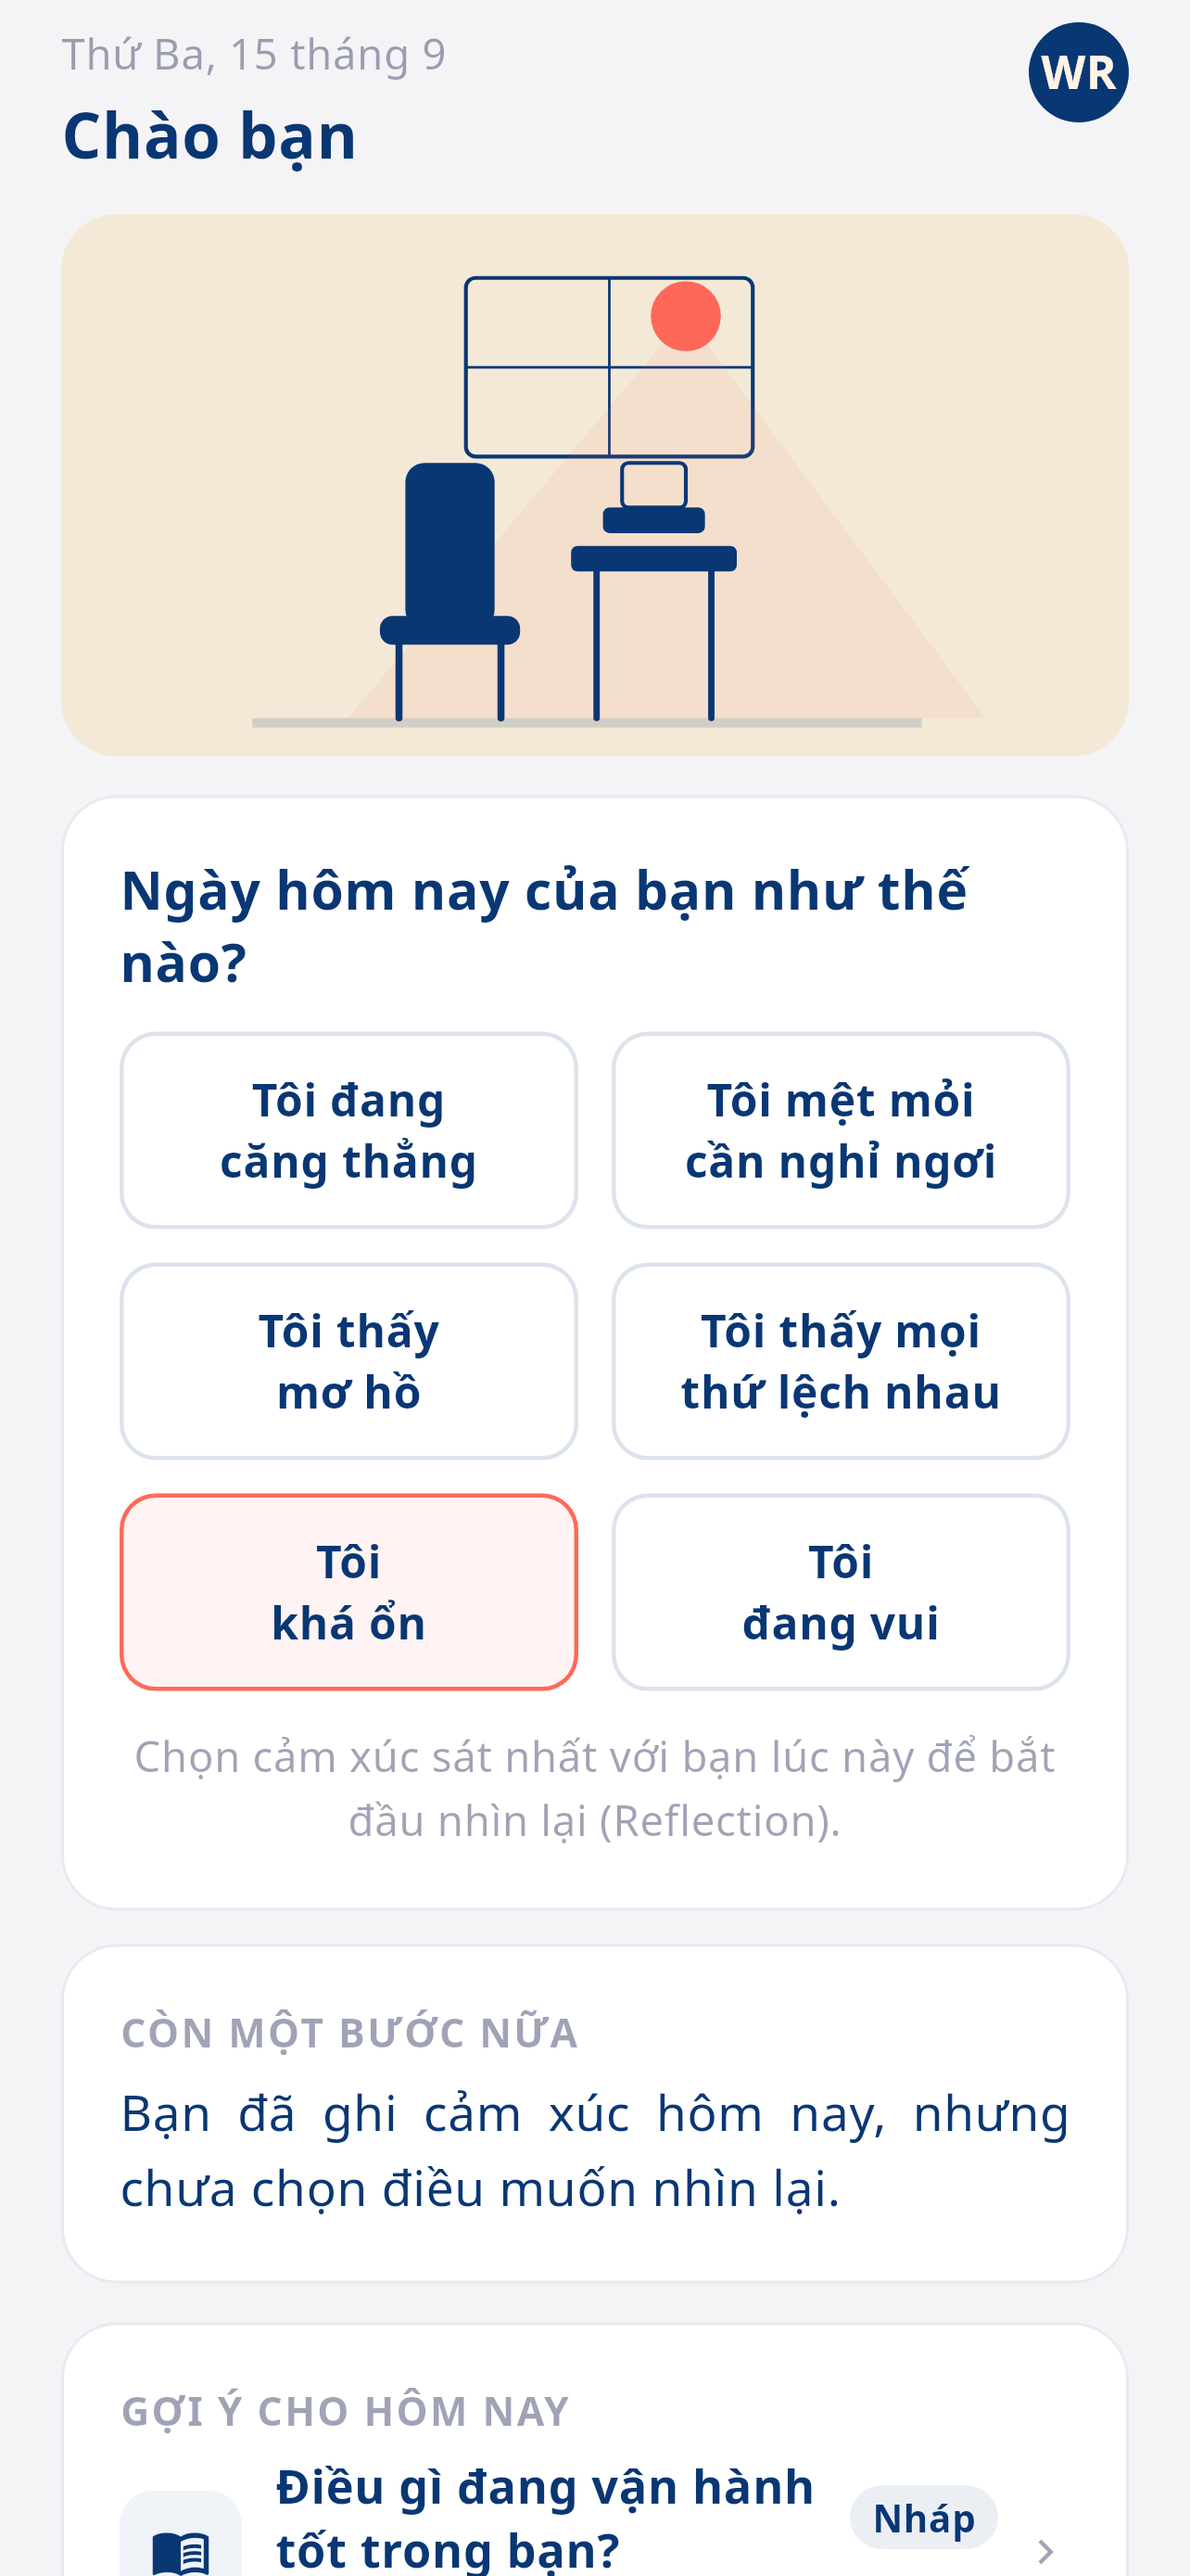
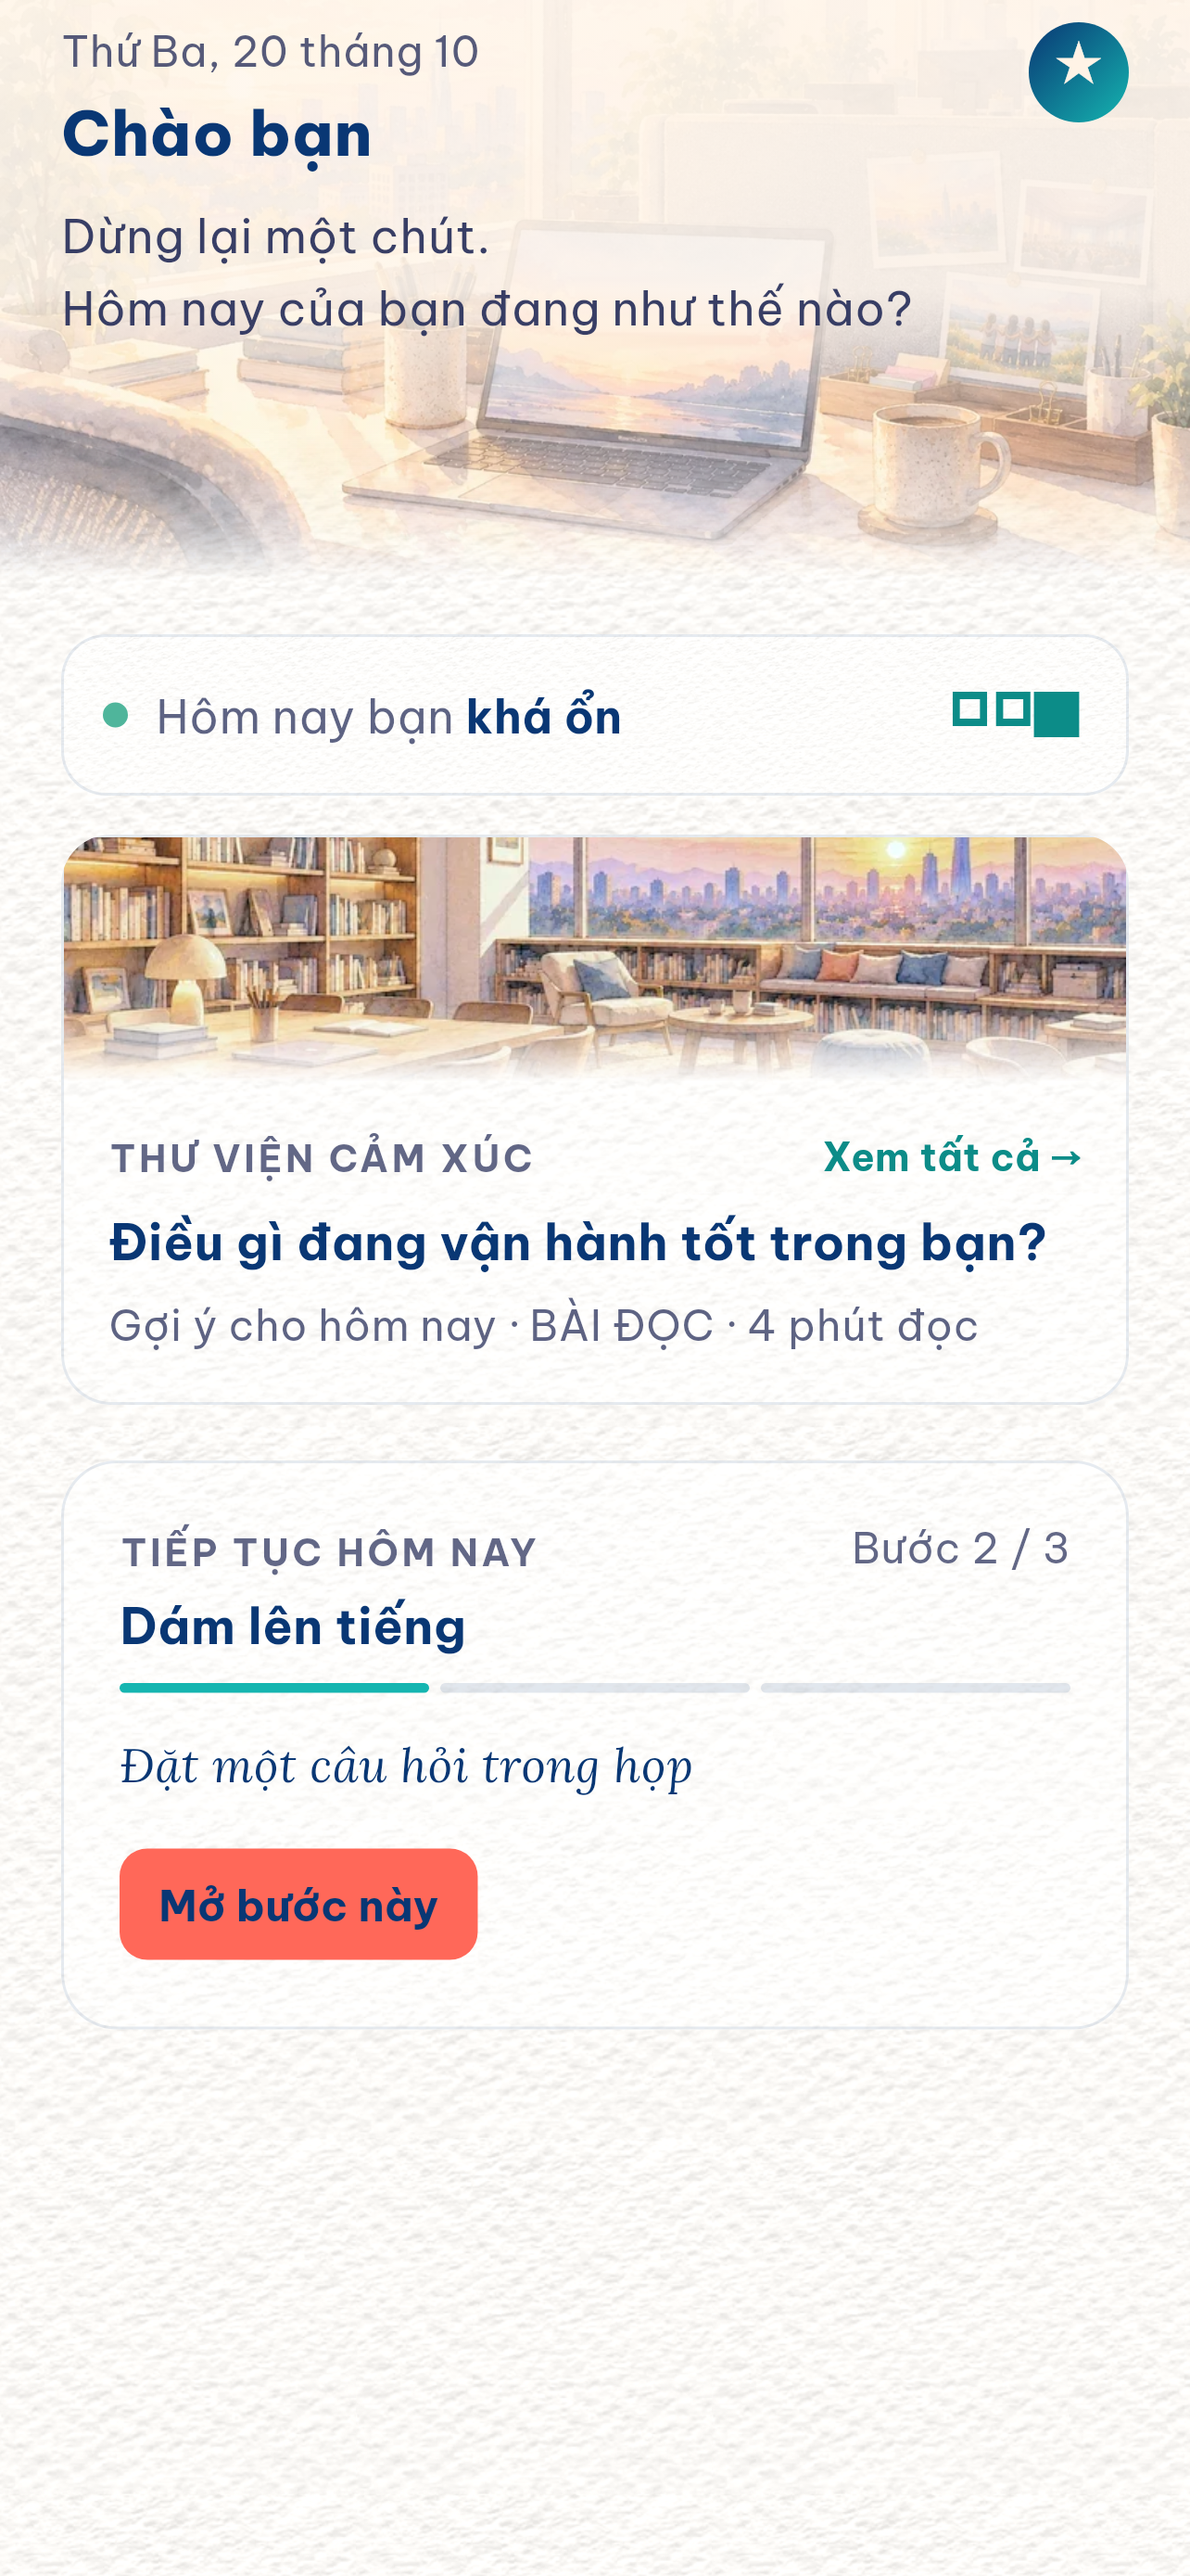
chore(screenshots): chụp lại bộ ảnh App Store theo giao diện màu nước (1.1.0)
Script chụp cũ ra ảnh hỏng với giao diện mới: nền đen (thiếu WrAppBackground
bọc ngoài, Scaffold trong suốt), ảnh .webp chưa giải mã kịp, ★ và → thành ô
vuông, và font NotoSans thay vì Be Vietnam Pro của app thật.

- Bọc WrAppBackground như lib/app.dart; theme sao wrTheme(isWatercolor) trừ
  google_fonts (máy test không có mạng).
- Giải mã ảnh asset trong runAsync trước khi chụp.
- Nạp Be Vietnam Pro từ WR_BVP_DIR; font dự phòng NotoSansSymbols2/Math.
- Mock SharedPreferences + cho tài khoản trong ảnh đã đồng ý AI.

Đã tải lên App Store Connect cho bản 1.1.0 (ô 6.9" và 6.5").

diff --git a/test/screenshots/app_store_test.dart b/test/screenshots/app_store_test.dart
@@ -26,6 +26,11 @@ import 'package:flutter/services.dart' show FontLoader;
 import 'package:flutter_riverpod/flutter_riverpod.dart';
 import 'package:flutter_test/flutter_test.dart';
 import 'package:go_router/go_router.dart';
+import 'package:shared_preferences/shared_preferences.dart';
+import 'package:workreflection_mobile/core/data/wr_ai_consent_repository.dart';
+import 'package:workreflection_mobile/core/logic/wr_ai_disclosure.dart'
+    show kWrAiDisclosureVersion;
+import 'package:workreflection_mobile/features/wr/ai_consent_providers.dart';
 import 'package:workreflection_mobile/core/data/wr_chat_repository.dart';
 import 'package:workreflection_mobile/core/data/wr_content_repository.dart';
 import 'package:workreflection_mobile/core/data/wr_episode_repository.dart';
@@ -39,6 +44,9 @@ import 'package:workreflection_mobile/core/models/wr_episode.dart';
 import 'package:workreflection_mobile/core/models/wr_intelligence.dart';
 import 'package:workreflection_mobile/core/theme/wr_text.dart';
 import 'package:workreflection_mobile/core/theme/wr_text_scale.dart';
+import 'package:workreflection_mobile/core/theme/wr_theme.dart'
+    show wrColorScheme;
+import 'package:workreflection_mobile/core/widgets/wr_app_background.dart';
 import 'package:workreflection_mobile/features/wr/presentation/wr_ask_screen.dart';
 import 'package:workreflection_mobile/features/wr/presentation/wr_discover_screen.dart';
 import 'package:workreflection_mobile/features/wr/presentation/wr_growth_screen.dart';
@@ -89,6 +97,35 @@ Future<void> _loadFonts() async {
   await load('NotoSans', 'assets/fonts/NotoSans-Regular.ttf');
   await load('NotoSans', 'assets/fonts/NotoSans-Bold.ttf');
   await load(WrText.serifFamily, 'assets/fonts/Lora-Italic.ttf');
+
+  // Ký hiệu ★ (avatar Premium) và → ("Xem tất cả →") không có trong NotoSans
+  // của app. Trên máy thật hệ điều hành tự mượn font khác; máy test thì không,
+  // nên phải nạp thêm vào cùng họ, không thì ra ô vuông.
+  await load(
+    'NotoSansSymbols2',
+    '/usr/share/fonts/truetype/noto/NotoSansSymbols2-Regular.ttf',
+  );
+  await load(
+    'NotoSansMath',
+    '/usr/share/fonts/truetype/noto/NotoSansMath-Regular.ttf',
+  );
+
+  // Font thật của app là Be Vietnam Pro, nạp qua google_fonts lúc chạy — máy
+  // test không có mạng nên phải trỏ tới bản tải sẵn (WR_BVP_DIR). Thiếu thì ảnh
+  // rơi về NotoSans, khác chữ trên máy thật.
+  final bvp = Platform.environment['WR_BVP_DIR'];
+  if (bvp != null) {
+    for (final w in [
+      'Regular',
+      'Medium',
+      'SemiBold',
+      'Bold',
+      'ExtraBold',
+      'Italic',
+    ]) {
+      await load('BeVietnamPro', '$bvp/BeVietnamPro-$w.ttf');
+    }
+  }
 
   // Icon cũng là font. Không nạp thì mọi Icon() ra ô vuông rỗng — ảnh coi như
   // bỏ. Font nằm trong cache của Flutter SDK chứ không trong repo.
@@ -305,17 +342,73 @@ class _Stage {
         wrRepositoryProvider.overrideWithValue(wr),
         wrChatRepositoryProvider.overrideWithValue(chat),
         currentUserIdProvider.overrideWithValue('u1'),
+        // Người trong ảnh đã đồng ý cho AI xử lý — ảnh màn Trò chuyện không bị
+        // hộp xin phép che mất.
+        wrAiConsentProvider.overrideWith(
+          (ref) async => WrAiConsent(
+            version: kWrAiDisclosureVersion,
+            grantedAt: DateTime(2026, 8, 1),
+          ),
+        ),
       ],
       child: MaterialApp.router(
-        builder: wrTextScaleBuilder,
+        // Giống `lib/app.dart`: nền giấy màu nước bọc ngoài mọi màn. Thiếu lớp
+        // này thì Scaffold trong suốt và ảnh ra nền đen.
+        builder: (context, child) => WrAppBackground(
+          mode: AppBackgroundMode.watercolor,
+          child: wrTextScaleBuilder(context, child),
+        ),
         debugShowCheckedModeBanner: false,
-        theme: ThemeData(fontFamily: 'NotoSans', useMaterial3: true),
+        // Bản sao `wrTheme(isWatercolor: true)` trừ textTheme: bản gốc gọi
+        // google_fonts tải font qua mạng, máy test không có.
+        theme: ThemeData(
+          useMaterial3: true,
+          colorScheme: wrColorScheme(),
+          scaffoldBackgroundColor: Colors.transparent,
+          appBarTheme: const AppBarTheme(
+            backgroundColor: Colors.transparent,
+            elevation: 0,
+            scrolledUnderElevation: 0,
+          ),
+          fontFamily: Platform.environment['WR_BVP_DIR'] != null
+              ? 'BeVietnamPro'
+              : 'NotoSans',
+          fontFamilyFallback: const [
+            'NotoSans',
+            'NotoSansSymbols2',
+            'NotoSansMath',
+          ],
+        ),
         routerConfig: router,
         localizationsDelegates: AppLocalizations.localizationsDelegates,
         supportedLocales: AppLocalizations.supportedLocales,
         locale: const Locale('vi'),
       ),
     );
+  }
+}
+
+/// Giải mã xong mọi ảnh asset đang có trên màn rồi mới chụp.
+///
+/// Ảnh nền màu nước (.webp) giải mã bất đồng bộ; trong `testWidgets` đồng hồ
+/// là giả nên `pumpAndSettle` xong mà ảnh vẫn chưa có, chụp ra nền đen. Phải
+/// giải mã trong `runAsync` (đồng hồ thật) rồi pump lại.
+Future<void> _precacheImages(WidgetTester tester) async {
+  for (var round = 0; round < 2; round++) {
+    final providers = <ImageProvider, Element>{};
+    for (final e in find.byType(Image).evaluate()) {
+      providers[(e.widget as Image).image] = e;
+    }
+    for (final e in find.byType(DecoratedBox).evaluate()) {
+      final d = (e.widget as DecoratedBox).decoration;
+      if (d is BoxDecoration && d.image != null) providers[d.image!.image] = e;
+    }
+    await tester.runAsync(() async {
+      for (final entry in providers.entries) {
+        await precacheImage(entry.key, entry.value);
+      }
+    });
+    await tester.pumpAndSettle();
   }
 }
 
@@ -336,6 +429,7 @@ Future<void> _shoot(WidgetTester tester, Widget app, String name) async {
 
     await tester.pumpWidget(app);
     await tester.pumpAndSettle();
+    await _precacheImages(tester);
 
     await expectLater(
       find.byType(MaterialApp),
@@ -349,6 +443,10 @@ void main() {
     TestWidgetsFlutterBinding.ensureInitialized();
     await _loadFonts();
   });
+
+  // Công tắc thử Premium đọc SharedPreferences; không mock thì getInstance()
+  // ném MissingPluginException ngay khi dựng màn.
+  setUp(() => SharedPreferences.setMockInitialValues({}));
 
   _Stage buildStage({Mood mood = Mood.okay}) {
     final s = _Stage();
